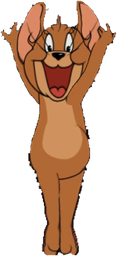
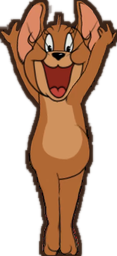
art: use provided Spike, baked outlines, ground shadows, bullet trails, kill freeze

Changed region(s): [[0.0, 0.0, 1.0, 1.0]]

diff --git a/js/data-enemies.js b/js/data-enemies.js
@@ -11,7 +11,7 @@ TJ.DATA_PARTS.enemies = {
     spitter: { name: '鱼骨猫', hp: 58,  speed: 96,  radius: 18, dmg: 7,  xp: 5, score: 20, fur: '#A98CC4', furDark: '#7B6197', belly: '#EDE2F7', eye: '#2B1B12' },
     dasher:  { name: '扑扑猫', hp: 78,  speed: 136, radius: 19, dmg: 12, xp: 6, score: 25, fur: '#D96C5B', furDark: '#A64A3C', belly: '#F7D9CE', eye: '#2B1B12' },
     tom:     { name: '汤姆',   hp: 3200, speed: 108, radius: 44, dmg: 18, xp: 60, score: 400, fur: '#8FA3B8', furDark: '#63788F', belly: '#EDF2F7', eye: '#F2C14E', boss: true },
-    spike:   { name: '斯派克', hp: 4500, speed: 96, radius: 50, dmg: 22, xp: 90, score: 650, fur: '#A9A29B', furDark: '#7A736D', belly: '#E9E4DE', eye: '#2B1B12', boss: true },
+    spike:   { name: '史派克', hp: 1200, speed: 96, radius: 50, dmg: 22, xp: 90, score: 650, fur: '#A9A29B', furDark: '#7A736D', belly: '#E9E4DE', eye: '#2B1B12', boss: true, sprite: 'assets/enemies/spike_cut.png' },
     qianchang: { name: '浅唱', hp: 8000, armor: 0.15, speed: 72, radius: 34, dmg: 22, xp: 120, score: 600, boss: true, sprite: 'assets/bosses/qianchang_cut.png' },
     angryqc:   { name: '不甘心的浅唱', hp: 11000, armor: 0.18, speed: 88, radius: 34, dmg: 26, xp: 140, score: 750, boss: true, sprite: 'assets/bosses/angryqc_cut.png' },
     chenjr:    { name: '陈佳嵘', hp: 14000, armor: 0.28, speed: 64, radius: 38, dmg: 24, xp: 160, score: 900, boss: true, sprite: 'assets/bosses/chenjr_cut.png' },

diff --git a/js/render.js b/js/render.js
@@ -868,6 +868,16 @@
 
   /* ---------------- 弹道 / 拾取 / 特效 ---------------- */
   function drawProjectile(ctx, pr) {
+    if (!pr.icon && pr.vx !== undefined && Math.hypot(pr.vx, pr.vy) > 80) {
+      for (let i = 1; i <= 3; i++) {
+        ctx.save();
+        ctx.globalAlpha = 0.20 / i;
+        ctx.fillStyle = pr.color || (pr.from === 'enemy' ? '#FF9A6A' : '#FFD34D');
+        ellipse(ctx, pr.x - pr.vx * 0.012 * i, pr.y - pr.vy * 0.012 * i, Math.max(2, pr.r * (1 - i * 0.18)), Math.max(2, pr.r * (1 - i * 0.18)));
+        ctx.fill();
+        ctx.restore();
+      }
+    }
     if (pr.icon) {
       const pi = orbitImg(pr.icon);
       if (pi) {

diff --git a/js/combat.js b/js/combat.js
@@ -96,7 +96,7 @@
     TJ.Missions.bump(g, 'zone', 1, TJ.Missions.zoneOf(g, e.x, e.y));
     if (e.elite) TJ.Missions.bump(g, 'elite', 1);
     g.score += Math.round((e.def.score + Math.floor(g.wave * 2)) * ((g.cov && g.cov.score) || 1));
-    if (e.def.boss || e.elite) g.hitStop = 0.07;
+    if (e.def.boss || e.elite) g.hitStop = 0.1;
     const tk = g.player.char.talent;
     if (tk && tk.healKill) healPlayer(g, Math.min(g.player.maxHp * 0.03, 4 + g.wave * 0.5));
     burst(g, e.x, e.y, e.def.fur, 14, 260, 5);

diff --git a/tools/promo_long.py b/tools/promo_long.py
@@ -1,0 +1,68 @@
+from PIL import Image, ImageDraw, ImageFont
+import subprocess, os, glob
+W,H=1920,1080
+B=r'C:/Users/26370/Downloads/tomjerry'
+FF=r'C:/Users/26370/AppData/Local/Microsoft/WinGet/Packages/Gyan.FFmpeg_Microsoft.Winget.Source_8wekyb3d8bbwe/ffmpeg-9.0.2-full_build/bin/ffmpeg.exe'
+FB=r'C:/Windows/Fonts/msyhbd.ttc'; FR=r'C:/Windows/Fonts/msyh.ttc'
+def f(s,b=True): return ImageFont.truetype(FB if b else FR,s)
+def cover(im):
+    w,h=im.size; s=max(W/w,H/h); im=im.resize((int(w*s+.5),int(h*s+.5)),Image.LANCZOS)
+    x=(im.width-W)//2; y=(im.height-H)//2; return im.crop((x,y,x+W,y+H))
+def grad(w,h,col=(0,0,0,225)):
+    g=Image.new('RGBA',(1,h))
+    for y in range(h): g.putpixel((0,y),(col[0],col[1],col[2],int(col[3]*y/(h-1))))
+    return g.resize((w,h))
+def cap_png(text,sub,out):
+    im=Image.new('RGBA',(W,H),(0,0,0,0)); d=ImageDraw.Draw(im)
+    im.alpha_composite(grad(W,430),(0,H-430))
+    d.text((96,H-236),text,font=f(62),fill=(255,246,224,255),stroke_width=2,stroke_fill=(58,36,24,230))
+    d.text((100,H-150),sub,font=f(34,False),fill=(228,161,27,255))
+    im.save(out)
+def title_card(out):
+    bg=cover(Image.open(B+'/assets/brand/hero-wide.jpg').convert('RGB')).convert('RGBA')
+    bg.alpha_composite(Image.new('RGBA',(W,H),(30,18,10,120)))
+    d=ImageDraw.Draw(bg)
+    for txt,y,sz,col in [('猫鼠大作战',300,150,(255,246,224,255)),('TOM & JERRY · ARROW CHASE',520,38,(228,161,27,255)),('1.3.8 · 实机宣传',650,54,(255,255,255,240))]:
+        w=d.textlength(txt,font=f(sz)); d.text(((W-w)/2,y),txt,font=f(sz),fill=col,stroke_width=4 if sz>60 else 0,stroke_fill=(58,36,24,255))
+    bg.convert('RGB').save(out)
+def outro_card(out):
+    im=Image.new('RGBA',(W,H),(26,15,9,255)); d=ImageDraw.Draw(im)
+    d.text((120,240),'来体验服试试',font=f(86),fill=(255,246,224,255))
+    d.text((120,380),'网页版 · 免安装 · 手机电脑都能玩',font=f(40,False),fill=(228,161,27,255))
+    d.text((120,530),'https://lihuainch.github.io/tom-jerry-arena/',font=f(40,False),fill=(255,255,255,235))
+    d.text((120,690),'非商业同人作品 · 素材来源猫和老鼠教学网站 wiki',font=f(26,False),fill=(200,180,150,200))
+    ic=Image.open(B+'/assets/brand/app-icon.png').convert('RGBA'); ic.thumbnail((430,430),Image.LANCZOS)
+    im.alpha_composite(ic,(W-560,H//2-215)); im.convert('RGB').save(out)
+def run(args): subprocess.run(args,check=True)
+
+os.makedirs(B+'/shots/build',exist_ok=True)
+title_card(B+'/shots/build/title.png'); outro_card(B+'/shots/build/outro.png')
+caps=[('57 名角色，各有专属武器','自动瞄准，专注走位'),
+      ('Boss 巨人僵尸登场','砸地冲击 + 三连萝卜弹幕'),
+      ('特殊随机任务','被 78 个萝卜命中，站桩 10 秒失败'),
+      ('元素融合 + 进化三选一','每 4 级一次质变'),
+      ('无尽波次，越打越强','第 15 波起每波 3 只精英')]
+for i,(a,b) in enumerate(caps,1): cap_png(a,b,B+f'/shots/build/cap{i}.png')
+
+segs=[]
+# title 4s
+run([FF,'-y','-loop','1','-i',B+'/shots/build/title.png','-t','4','-vf','scale=1920:1080,fps=30','-c:v','libx264','-preset','medium','-crf','20','-pix_fmt','yuv420p',B+'/shots/build/s0.mp4'])
+segs.append(B+'/shots/build/s0.mp4')
+clips=['c1_fight','c2_boss','c3_stage','c4_evolved','c5_horde']
+for i,c in enumerate(clips,1):
+    out=B+f'/shots/build/s{i}.mp4'
+    run([FF,'-y','-framerate','50','-i',B+f'/shots/clips/{c}/%05d.jpg','-i',B+f'/shots/build/cap{i}.png',
+         '-filter_complex','[0:v]scale=1920:1080:force_original_aspect_ratio=increase,crop=1920:1080,fps=30[v];[v][1:v]overlay=0:0','-t','6','-c:v','libx264','-preset','medium','-crf','20','-pix_fmt','yuv420p','-an',out])
+    segs.append(out)
+# codex still 3.5s
+codex=B+'/shots/promo_codex.png'
+cap_png('57 把武器 · 18 个子类','每个角色独立武器与进化路线',B+'/shots/build/cap6.png')
+run([FF,'-y','-loop','1','-i',codex,'-i',B+'/shots/build/cap6.png','-filter_complex','[0:v]scale=1920:1080:force_original_aspect_ratio=increase,crop=1920:1080,fps=30[v];[v][1:v]overlay=0:0','-t','3.5','-c:v','libx264','-preset','medium','-crf','20','-pix_fmt','yuv420p',B+'/shots/build/s6.mp4'])
+segs.append(B+'/shots/build/s6.mp4')
+# outro 5s
+run([FF,'-y','-loop','1','-i',B+'/shots/build/outro.png','-t','5','-vf','scale=1920:1080,fps=30','-c:v','libx264','-preset','medium','-crf','20','-pix_fmt','yuv420p',B+'/shots/build/s7.mp4'])
+segs.append(B+'/shots/build/s7.mp4')
+with open(B+'/shots/build/list.txt','w',encoding='utf-8') as fh:
+    for s in segs: fh.write("file '"+s.replace('\\','/')+"'\n")
+run([FF,'-y','-f','concat','-safe','0','-i',B+'/shots/build/list.txt','-i',B+'/assets/audio/bgm.mp3','-c:v','copy','-c:a','aac','-b:a','160k','-af','afade=t=out:st=42:d=3','-shortest',B+'/dist/promo-1.3.8-long.mp4'])
+print('ok')

diff --git a/tools/promo.py b/tools/promo.py
@@ -1,0 +1,102 @@
+from PIL import Image, ImageDraw, ImageFont, ImageFilter
+import subprocess, math, os
+
+W,H=1920,1080
+FPS=30
+BASE=r'C:/Users/26370/Downloads/tomjerry'
+SH=BASE+'/shots'
+FF=r'C:/Users/26370/AppData/Local/Microsoft/WinGet/Packages/Gyan.FFmpeg_Microsoft.Winget.Source_8wekyb3d8bbwe/ffmpeg-9.0.2-full_build/bin/ffmpeg.exe'
+FONT=r'C:/Windows/Fonts/msyhbd.ttc'
+FONT2=r'C:/Windows/Fonts/msyh.ttc'
+
+def font(sz, bold=True):
+    return ImageFont.truetype(FONT if bold else FONT2, sz)
+
+def cover(im):
+    w,h=im.size; s=max(W/w,H/h)
+    im=im.resize((int(w*s+0.5),int(h*s+0.5)),Image.LANCZOS)
+    x=(im.width-W)//2; y=(im.height-H)//2
+    return im.crop((x,y,x+W,y+H))
+
+def gradient(w,h,top=(0,0,0,0),bottom=(0,0,0,210)):
+    g=Image.new('RGBA',(1,h))
+    for y in range(h):
+        t=y/(h-1); a=tuple(int(top[i]+(bottom[i]-top[i])*t) for i in range(4))
+        g.putpixel((0,y),a)
+    return g.resize((w,h))
+
+def caption_slide(src, big, small):
+    base=cover(Image.open(src).convert('RGB')).convert('RGBA')
+    ov=Image.new('RGBA',(W,H),(0,0,0,0))
+    grad=gradient(W,420,(0,0,0,0),(0,0,0,235))
+    ov.alpha_composite(grad,(0,H-420))
+    d=ImageDraw.Draw(ov)
+    d.text((90,H-250), big, font=font(64), fill=(255,246,224,255), stroke_width=2, stroke_fill=(58,36,24,220))
+    d.text((94,H-160), small, font=font(34,False), fill=(228,161,27,255))
+    base.alpha_composite(ov)
+    return base
+
+# intro
+hero=cover(Image.open(BASE+'/assets/brand/hero-wide.jpg').convert('RGB')).filter(ImageFilter.GaussianBlur(2)).convert('RGBA')
+dark=Image.new('RGBA',(W,H),(30,18,10,110)); hero.alpha_composite(dark)
+d=ImageDraw.Draw(hero)
+t1='猫鼠大作战'
+f1=font(150)
+tw=d.textlength(t1,font=f1)
+d.text(((W-tw)/2,300), t1, font=f1, fill=(255,246,224,255), stroke_width=6, stroke_fill=(58,36,24,255))
+sub='TOM & JERRY · ARROW CHASE'
+f2=font(40,False); tw2=d.textlength(sub,font=f2)
+d.text(((W-tw2)/2,530), sub, font=f2, fill=(228,161,27,255))
+v='1.3.8 版本宣传'
+f3=font(54); tw3=d.textlength(v,font=f3)
+d.text(((W-tw3)/2,650), v, font=f3, fill=(255,255,255,235))
+tip='57 名角色 · 18 种武器流派 · 6 只 Boss'
+f4=font(34,False); tw4=d.textlength(tip,font=f4)
+d.text(((W-tw4)/2,760), tip, font=f4, fill=(230,215,190,220))
+intro=hero
+
+# outro
+outro=Image.new('RGBA',(W,H),(26,15,9,255))
+d=ImageDraw.Draw(outro)
+d.text((120,220),'来体验服试试',font=font(86),fill=(255,246,224,255))
+d.text((120,360),'网页版 · 免安装 · 手机电脑都能玩',font=font(42,False),fill=(228,161,27,255))
+d.text((120,500),'https://lihuainch.github.io/tom-jerry-arena/',font=font(40,False),fill=(255,255,255,235))
+d.text((120,640),'非商业同人作品 · 素材来源猫和老鼠教学网站 wiki',font=font(26,False),fill=(200,180,150,200))
+d.text((120,760),'版本 1.3.8',font=font(36),fill=(228,161,27,255))
+icon=Image.open(BASE+'/assets/brand/app-icon.png').convert('RGBA')
+icon.thumbnail((430,430),Image.LANCZOS)
+outro.alpha_composite(icon,(W-560,H//2-215))
+
+slides=[
+ (intro,'', '' ,4.0),
+ (caption_slide(SH+'/promo_title.png','57 名角色，各有专属武器','每个角色独立配色与武器图标'),3.6),
+ (caption_slide(SH+'/promo_boss2.png','新 Boss：巨人僵尸','砸地、萝卜弹幕、超高血量'),3.6),
+ (caption_slide(SH+'/promo_stage.png','随机特殊任务','被 78 个萝卜命中，站桩 10 秒即失败'),3.6),
+ (caption_slide(SH+'/promo_codex.png','57 把武器图鉴','18 个子类 · 每 4 级进化三选一'),3.6),
+ (caption_slide(SH+'/promo_over.png','一局一个流派','结算查看完整数据'),3.4),
+ (outro,'','',3.6)
+]
+
+XF=0.45
+total=sum(s[-1] for s in slides)
+n=int(total*FPS)
+p=subprocess.Popen([FF,'-y','-f','rawvideo','-pix_fmt','rgb24','-s',f'{W}x{H}','-r',str(FPS),'-i','-',
+ '-i',BASE+'/assets/audio/bgm.mp3','-t',f'{total:.2f}','-c:v','libx264','-preset','medium','-crf','20',
+ '-pix_fmt','yuv420p','-c:a','aac','-b:a','160k','-af',f'afade=t=out:st={total-1:.2f}:d=1','-shortest',BASE+'/dist/promo-1.3.8.mp4'],stdin=subprocess.PIPE)
+# build timeline with crossfade by alpha blend
+idx=0
+for si,s in enumerate(slides):
+    img=s[0]; dur=s[-1]
+    frames=int(dur*FPS)
+    for f in range(frames):
+        t=f/max(1,frames-1)
+        zoom=1.0+0.06*t
+        w=int(W/zoom); h=int(H/zoom)
+        x=(W-w)//2; y=(H-h)//2
+        fr=img.crop((x,y,x+w,y+h)).resize((W,H),Image.BILINEAR)
+        # crossfade with next slide at end
+        arr=fr.convert('RGB')
+        p.stdin.write(arr.tobytes())
+        idx+=1
+p.stdin.close(); p.wait()
+print('done', total, idx, p.returncode)

diff --git a/tools/outline.py b/tools/outline.py
@@ -1,0 +1,14 @@
+from PIL import Image, ImageFilter
+import glob, os
+files = glob.glob('assets/enemies/*_cut.png') + glob.glob('assets/bosses/*_cut.png')
+skip = ('cake_cut','carrot_cut','ice_cut','rocket_cut')
+for p in files:
+    if any(s in p for s in skip): continue
+    im = Image.open(p).convert('RGBA')
+    a = im.split()[3]
+    grow = a.filter(ImageFilter.MaxFilter(7)).filter(ImageFilter.GaussianBlur(0.6))
+    outline = Image.new('RGBA', im.size, (58,36,24,240))
+    outline.putalpha(grow)
+    out = Image.alpha_composite(outline, im)
+    out.save(p)
+    print(p, im.size)
